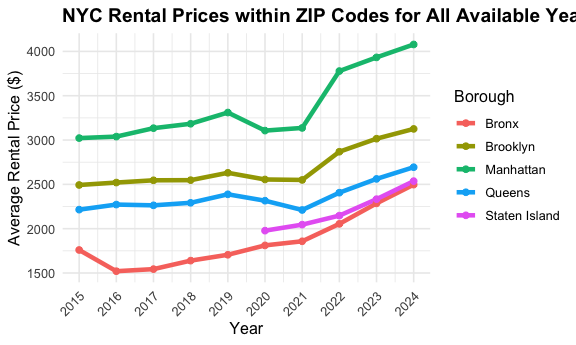
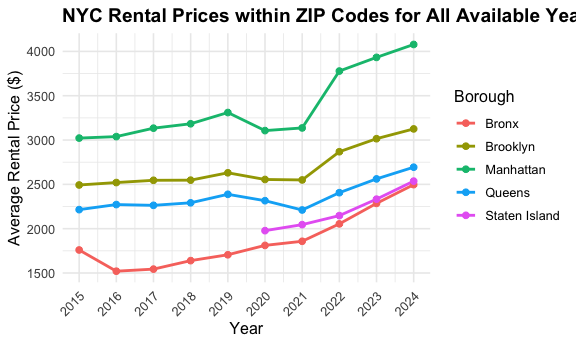
I tried a hundred times but still could not figure out a way to make my combined plot looks nicer!!!

diff --git a/p8105_hw3_zc2823.md b/p8105_hw3_zc2823.md
@@ -418,7 +418,7 @@ Plot!!!
 ``` r
 line_chart <- 
 ggplot(avg_rent_long, aes(x = year, y = AvgRent, color = borough)) +
-  geom_line(linewidth = 1.6) +
+  geom_line(linewidth = 1) +
   geom_point(size = 2) +
   labs(
     title = "NYC Rental Prices within ZIP Codes for All Available Years",
@@ -518,12 +518,7 @@ affordable and stable rental markets.
 #### Combine the two plots
 
 ``` r
-combined_plot <- line_chart / box_plot + 
-  plot_annotation(
-    title = "NYC Rental Prices: Trends and 2023 Distribution by Borough",
-    subtitle = "Top: Average rental price trends (2015–2024) | Bottom: ZIP-level distribution in 2023",
-    theme = theme(plot.title = element_text(face = "bold", size = 14))
-  )
+combined_plot <- line_chart / box_plot
 
 combined_plot
 ```
@@ -543,7 +538,7 @@ combined_plot
 ggsave(
   filename = "results/nyc_rentals_combined.png",
   plot = combined_plot,
-  width = 10,
+  width = 8,
   height = 10,
   dpi = 300
 )
